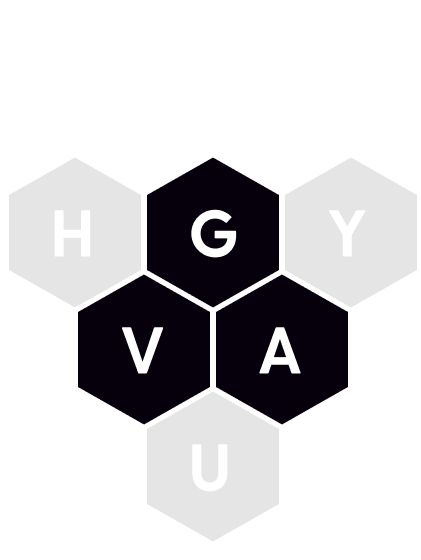
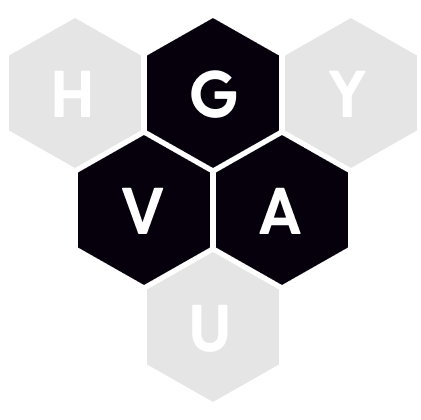
spelling bee image updated

diff --git a/lib/screens/game_intro_screen.dart b/lib/screens/game_intro_screen.dart
@@ -7,7 +7,6 @@ import 'package:wordles_multi_game_flutter/widgets/cust_image.dart';
 
 import '../bindings/route_names.dart';
 import '../constants/constant_font.dart';
-import '../constants/constant_image.dart';
 import '../utils/custom_enum.dart';
 import '../widgets/common_button.dart';
 import '../widgets/custom_text.dart';
@@ -69,6 +68,7 @@ class _GameIntroScreenState extends State<GameIntroScreen> {
                       imgURL: introScreenModel.image,
                       height: 140.h,
                       width: 140.h,
+                      boxfit: BoxFit.contain,
                     ),
                     Gap(20.h),
                     CustomText(
